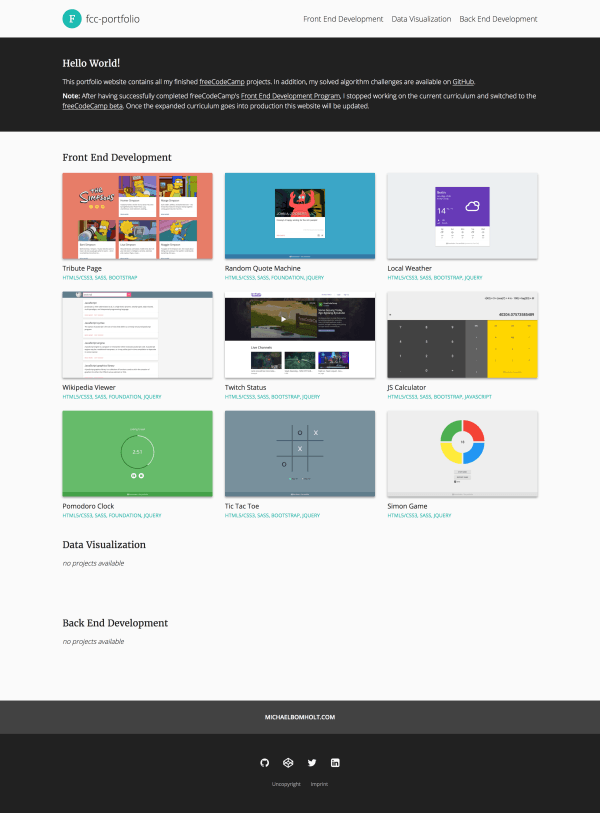
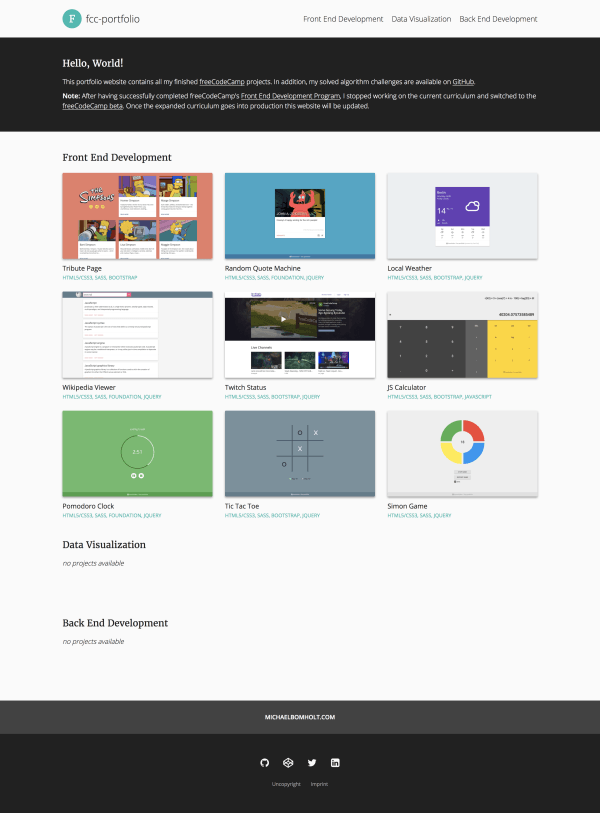
update Personal Portfolio

diff --git a/applied_responsive_web_design_projects/personal_portfolio/index.html b/applied_responsive_web_design_projects/personal_portfolio/index.html
@@ -35,7 +35,7 @@
     <div class="container">
       <div class="row">
         <div class="col-xs-12">
-          <h3>Hello World!</h3>
+          <h3>Hello, World!</h3>
           <p>This portfolio website contains all my finished <a href="https://www.freecodecamp.org" target="_blank" rel="noopener noreferrer">freeCodeCamp</a> projects. In addition, my solved algorithm challenges are available on <a href="https://github.com/bomholtm/fcc-portfolio" target="_blank" rel="noopener noreferrer">GitHub</a>.</p>
           <p><b>Note:</b> After having successfully completed freeCodeCamp's <a href="https://www.freecodecamp.org/bomholtm/front-end-certification" target="_blank" rel="noopener noreferrer">Front End Development Program</a>, I stopped working on the current curriculum and switched to the <a href="https://beta.freecodecamp.org" target="_blank" rel="noopener noreferrer">freeCodeCamp beta</a>. Once the expanded curriculum goes into production this website will be updated.</p>
         </div>
